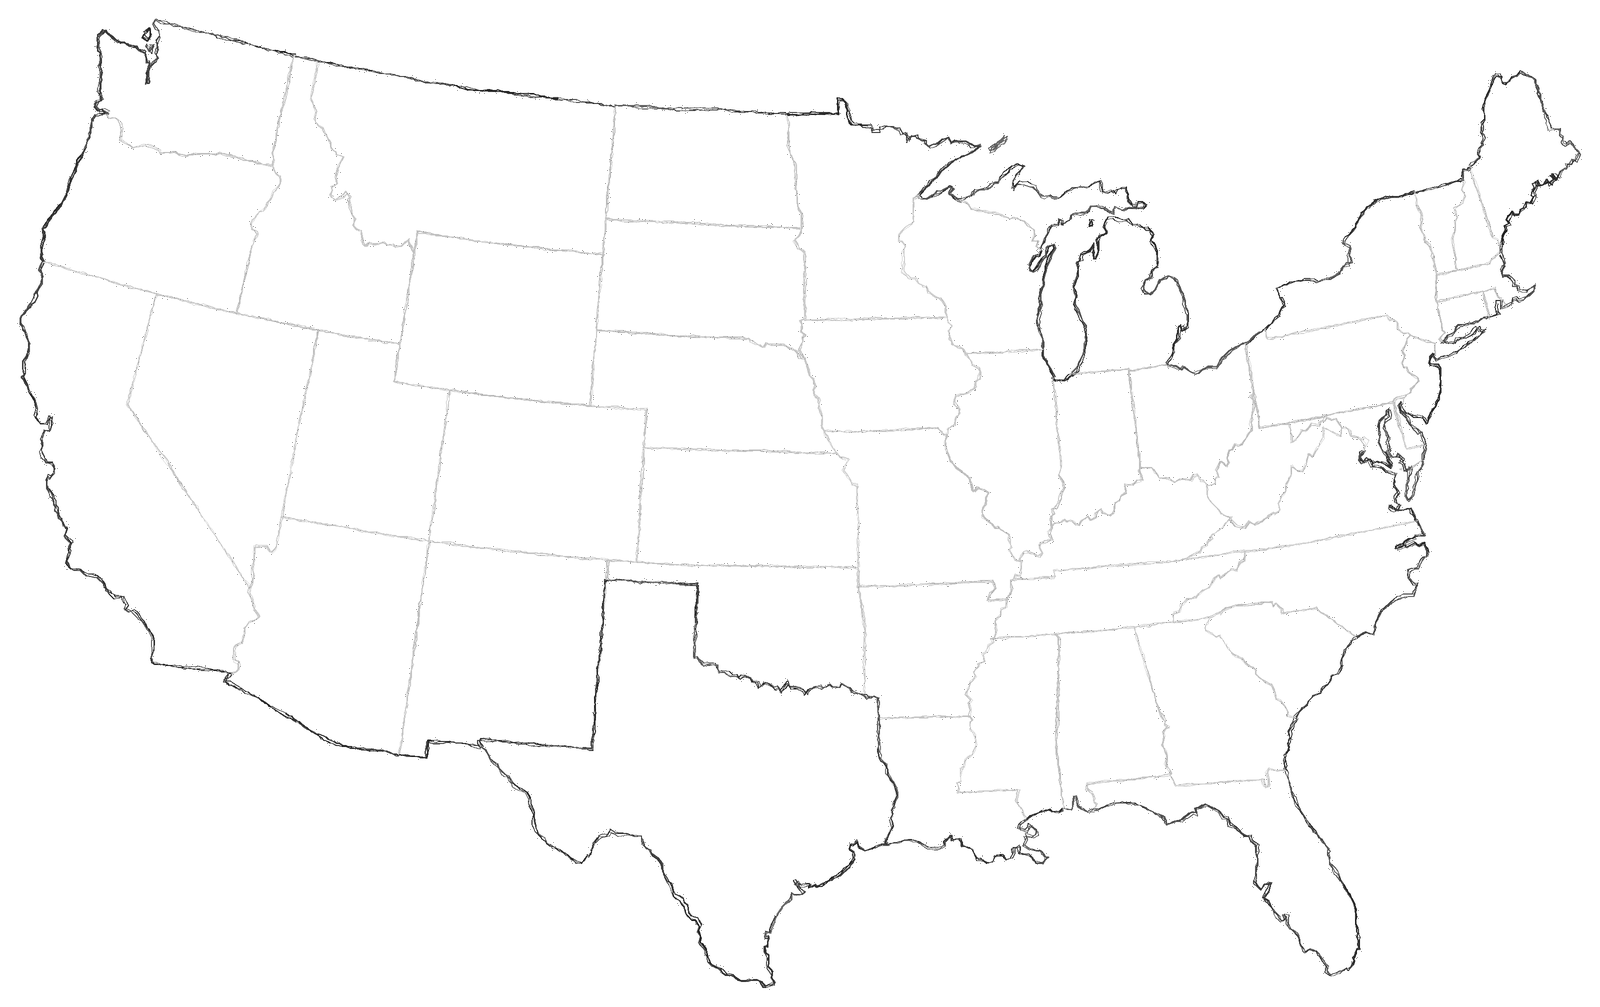
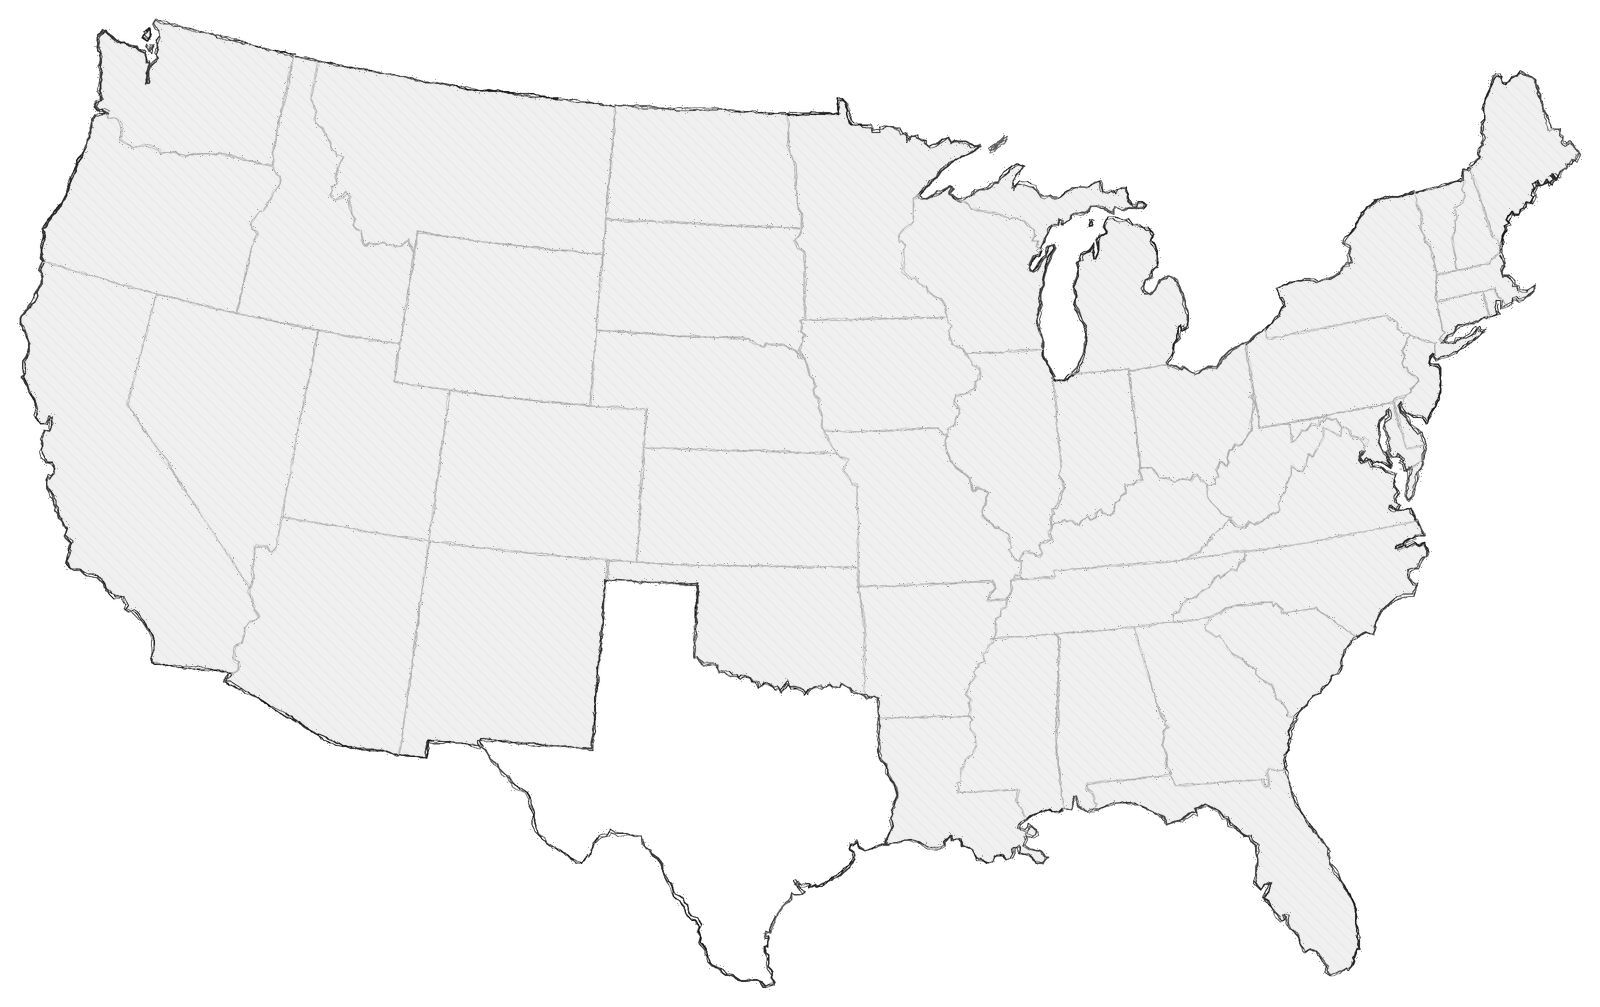
Road map: grey out states outside Texas (pending), bigger swipeable map on phones
Claude-Session: https://claude.ai/code/session_015ZWwZCAtjWMJ1wziPeLfYd

diff --git a/public/index.html b/public/index.html
@@ -335,6 +335,12 @@ img{max-width:100%}
 @media (prefers-reduced-motion:reduce){.pin img{transition:none}.pin.tonight img{animation:none}}
 .pin.side-r .lbl{right:auto;left:100%;justify-items:start}
 @media (max-width:699px){.pin{padding:7px !important}.pin img{width:18px}.pin .lbl{font-size:8px}.pin .lbl small{font-size:7px}}
+.mapscroll{position:relative}
+@media (max-width:699px){
+  .mapscroll{overflow-x:auto;margin-inline:calc(-1 * max(16px, env(safe-area-inset-left,0px)));scrollbar-width:none;-webkit-overflow-scrolling:touch}
+  .mapscroll::-webkit-scrollbar{display:none}
+  .mapscroll .txmap{width:170%;max-width:none}
+}
 </style>
 </head>
 <body>
@@ -465,7 +471,7 @@ import { SHOWS } from "/shows.js";
       return `<button class="pin ${on ? "on" : ""} ${st} side-${s.pin.side || "l"}" style="left:${s.pin.x}%;top:${s.pin.y}%" data-chip="content" data-v="${s.id}" aria-pressed="${on}" aria-label="${esc(s.city)}, ${p.m.replace(".","")} ${p.d}">
         <img src="/frames/star.png" alt=""><span class="lbl">${esc(s.city.toUpperCase())}<small>${st === "tonight" ? "TONIGHT" : p.m.replace(".","") + " " + p.d}</small></span></button>`;
     }).join("");
-    return `<div class="txmap ${cur !== "all" ? "picked" : ""}"><img class="tx" src="/frames/us.png" alt="Map of the United States with the tour stops">${pins}</div>
+    return `<div class="mapscroll"><div class="txmap ${cur !== "all" ? "picked" : ""}"><img class="tx" src="/frames/us.png" alt="Map of the United States with the tour stops">${pins}</div></div>
       <p class="maphint">${cur === "all" ? "Tap a star" : "&nbsp;"}</p>`;
   }
 
@@ -587,6 +593,7 @@ import { SHOWS } from "/shows.js";
     app.dataset.view = r;
     app.innerHTML = r === "terms" ? viewTerms() : r === "fans" ? viewList("fans") : r === "content" ? viewList("content") : r.startsWith("show-") ? viewShow(r.slice(5)) : r.startsWith("tour-") ? viewTour(+r.slice(5)) : viewTour();
     fitTowns();
+    const ms = $(".mapscroll"); if (ms && ms.scrollWidth > ms.clientWidth) ms.scrollLeft = ms.scrollWidth * 0.49 - ms.clientWidth / 2;  // phones: start on Texas
   }
 
   // phones: stretch each city name to the full screen width
